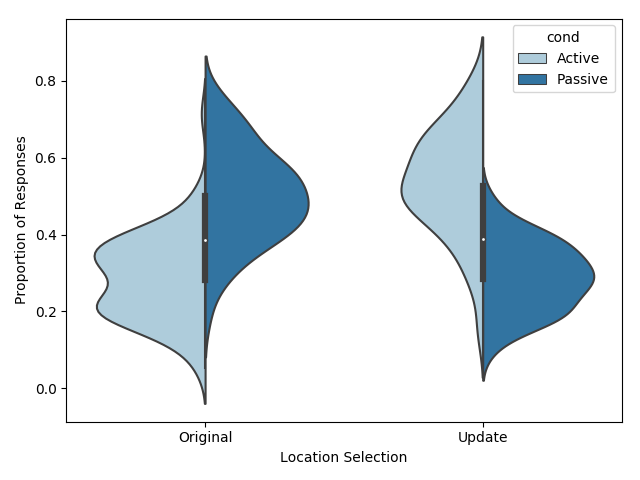
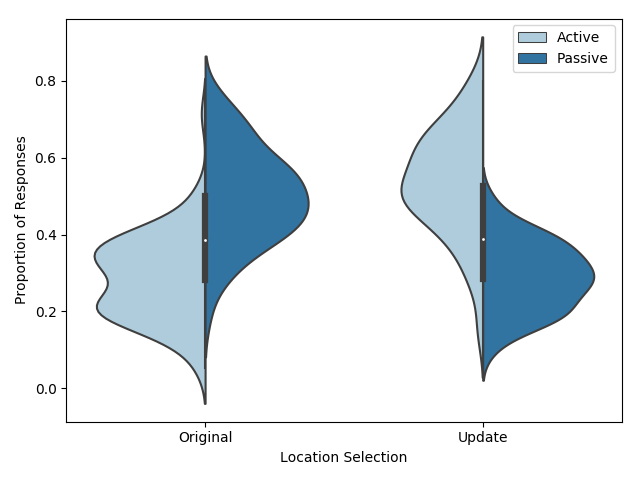
added readme to cxtupdate

Changed region(s): [[0.7812, 0.0625, 0.9688, 0.1875]]

diff --git a/cxtupdate/cxt_figs.py b/cxtupdate/cxt_figs.py
@@ -16,16 +16,8 @@ def get_cxt_figs(props_tidy):
     swarmfig.set_ylabel('Proportion of Responses', fontsize=20)
     swarmfig.set_xlabel('Location Selection', fontsize=20)
     swarmfig.tick_params(labelsize=16)
-    # plt.title(measure, fontsize=30)
     plt.legend(fontsize=12)
     plt.gca().legend().set_title('')
-    # ax = swarmfig.axes.flatten()
-    # ax[0].set_title('Active')
-    # ax[1].set_title('Passive')
-    # swarmfig._legend.text[0].set_text('Active')
-    # swarmfig._legend.text[1].set_text('Passive')
-    # swarmfig._legend.set_title('Location')
-
     swarmfig=swarmfig.get_figure()
     plt.savefig('figs/loc_cond_swarm.png')
     plt.clf()
@@ -33,8 +25,10 @@ def get_cxt_figs(props_tidy):
     viosplit=sns.violinplot(x='locs', y='prop', hue='cond', split=True,
     data=props_tidy[props_tidy['locs']!=3], palette='Paired')
     plt.xticks((0,1),['Original', 'Update'])
-    plt.ylabel('Proportion of Responses')
-    plt.xlabel('Location Selection')
+    viosplit.set_ylabel('Proportion of Responses')
+    viosplit.set_xlabel('Location Selection')
+    plt.legend(fontsize=12)
+    plt.gca().legend().set_title('')
     viosplit=viosplit.get_figure()
     viosplit.savefig('figs/cxt_viosplit.png')
     plt.clf()

diff --git a/cxtupdate/README.md b/cxtupdate/README.md
@@ -1,0 +1,7 @@
+Experiment 2 from Memory is Malleable (http://www.donnajobridge.com/update.html)
+
+To generate two figures from behavioral data, go to terminal in cxtupdate directory. From there, run "python run_cxt.py"
+
+A swarm plot will be created showing the proportion of responses for each location (Original, Updated, New) and for each condition (Active, Passive).
+
+A violin plot will also be created showing only proportion of responses for the Original and Updated locations for both Active and Passive conditions.
